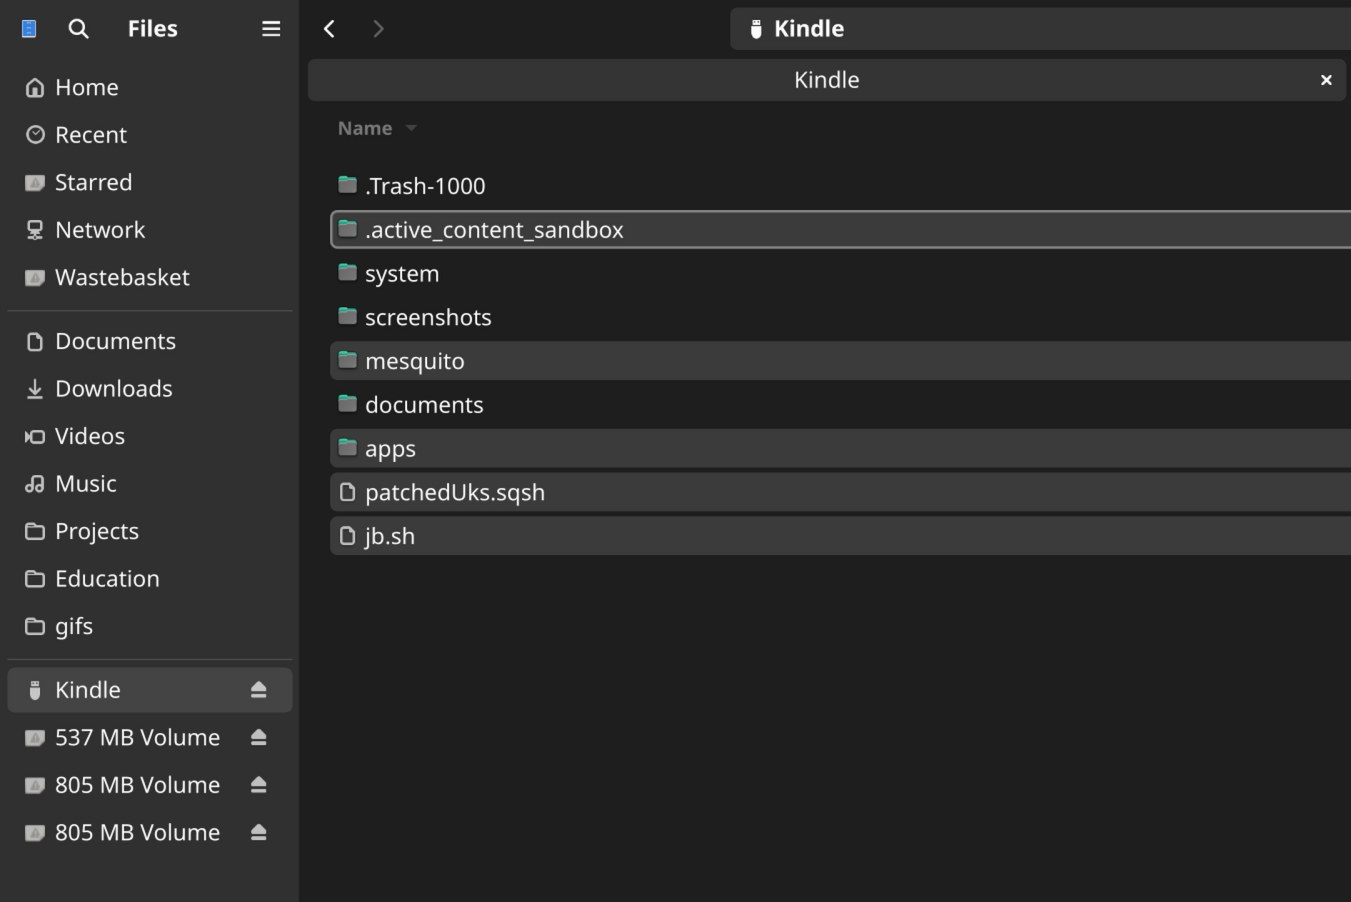
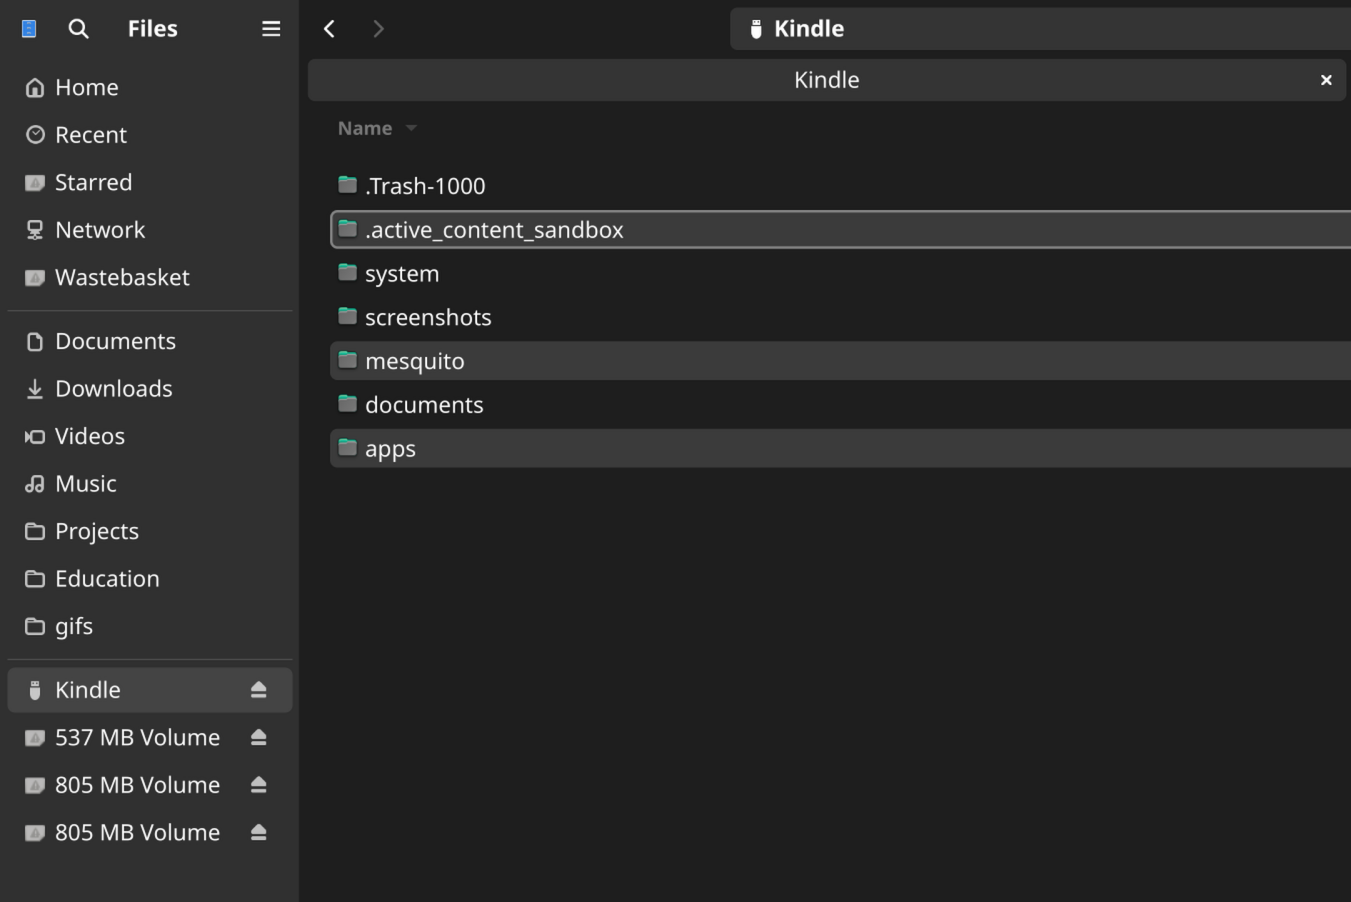
clarify instructions for winterbreak, springbreak, sanctuary

Changed region(s): [[0.2176, 0.4967, 1.0, 0.6208]]

diff --git a/content/jailbreaking/post-jailbreak/setting-up-a-hotfix/__index.md b/content/jailbreaking/post-jailbreak/setting-up-a-hotfix/__index.md
@@ -13,7 +13,8 @@ A hotfix allows your Kindle's jailbreak to persist after updating. There are two
 > If you have blocked the updates using `renametobin` (set to `Rename`), make sure to revert it beforehand (by selecting `Restore`), or you will not be able to install the hotfix through the Settings menu
 
 > [!WARNING]
-> This is not necessary for some types of legacy jailbreaks, check the corresponding page
+> You may skip this if you jailbroke using Winterbreak, Springbreak, or Sanctuary. The hotfix has already been installed for you.  
+> This is also not necessary for some types of legacy jailbreaks, check the corresponding page.
 
 <div id="guide">
     <div class="buttons">

diff --git a/content/jailbreaking/post-jailbreak/disable-ota.md b/content/jailbreaking/post-jailbreak/disable-ota.md
@@ -10,7 +10,7 @@ weight: 3
 Kindles automatically update when connected to Wi-Fi, which despite a `hotfix`, can often cause instabilities on jailbroken systems or outright remove the jailbreak.
 
 > [!WARNING]
-> You may skip this if you jailbroke using Winterbreak or Springbreak
+> You may skip this if you jailbroke using Winterbreak, Springbreak, or Sanctuary. OTA updates have already been blocked for you.
 
 <div id="guide">
     <div class="buttons">